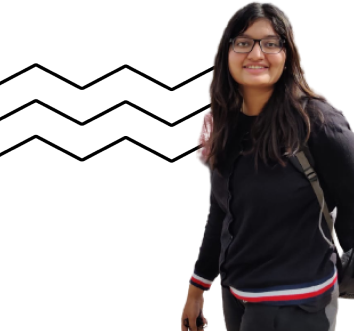
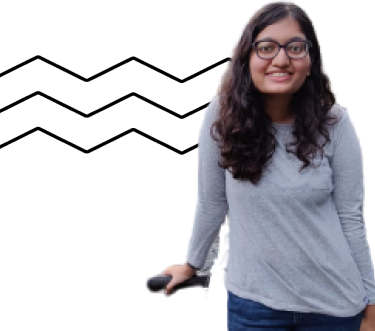
Update homepage photos

diff --git a/src/components/about.js b/src/components/about.js
@@ -2,7 +2,11 @@ import React, {Component} from 'react'
 import '../index.css';
 import '../index.scss';
 import SubHeader from './sub-header';
+
 import me from '../assets/me.png';
+import about_one from '../assets/about_one.png'
+import about_two from '../assets/about_two.png'
+import about_three from '../assets/about_three.png'
 
 class About extends Component{
     render(){ 
@@ -39,6 +43,36 @@ class About extends Component{
                         
                         </div>
                         </div>
+                        <div>
+
+                        <div className='heading-about'> I KEEP FIDDLING AROUND! </div>
+                        <div className='random-container'>
+                        <div>
+                        <img src={about_one} className='about_image'/>
+                        <div className='about-card'> 
+                        <div className='about-card-header'> I am fond of content creation! </div>
+                        </div>
+                        </div>
+
+                        <div>
+                        <img src={about_two} className='about_image'/>
+                        <div className='about-card-middle'> 
+
+                        </div>
+                        </div>
+
+                        <div>
+                        <img src={about_three} className='about_image'/>
+                        <div className='about-card-three'> 
+
+                        </div>
+                        </div>
+
+                            
+                        </div>
+
+                        </div>
+
                         </div>
                         </div>
         )     

diff --git a/src/index.css b/src/index.css
@@ -373,6 +373,59 @@ a.box-button:hover{
   font-size: 24px;
 }
 
+.random-container{
+  display:flex;
+  flex-direction: row;
+  margin:80px;
+  margin-top:52px;
+  justify-content: space-between;
+}
+
+.about_image{
+  border-radius: 4px;
+}
+
+.about-card{
+  display:flex;
+  width: 330px;
+  height: 150px;
+  background: #FFFFFF;
+  box-shadow: 0px 4px 14px rgba(0, 0, 0, 0.04);
+  border-radius: 0px 0px 8px 8px;
+}
+
+.about-card-middle{
+  display:flex;
+  width: 539px;
+  height: 150px;
+  background: #FFFFFF;
+  box-shadow: 0px 4px 14px rgba(0, 0, 0, 0.04);
+  border-radius: 0px 0px 8px 8px;
+}
+
+.about-card-three{
+  display:flex;
+  width: 317px;
+  height: 150px;
+  background: #FFFFFF;
+  box-shadow: 0px 4px 14px rgba(0, 0, 0, 0.04);
+  border-radius: 0px 0px 8px 8px;
+}
+
+.about-card-header{
+  margin-top:12px;
+  text-align: center;
+  font-family: Work Sans;
+font-style: normal;
+font-weight: 500;
+font-size: 20px;
+line-height: 23px;
+
+color: #181818;
+
+
+}
+
 #loader {
   
   animation: loader 5s linear infinite; 
